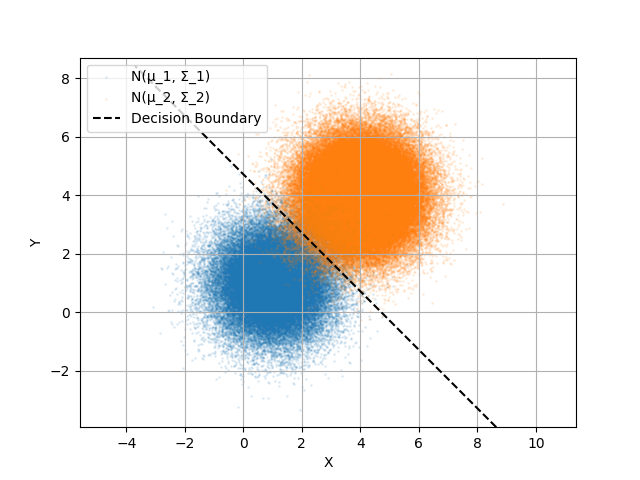
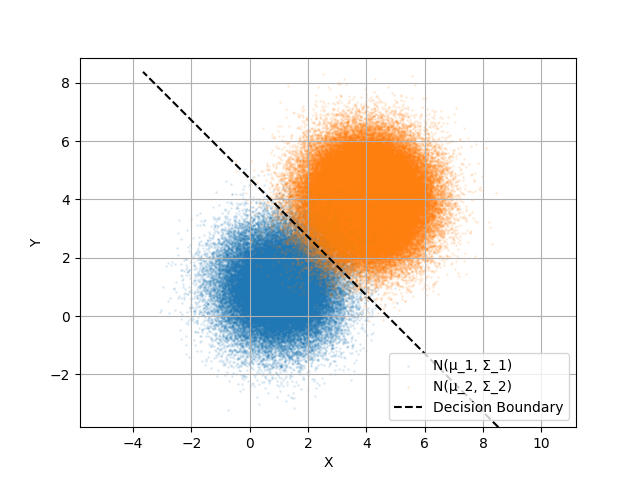
make reproducible for AS2

diff --git a/pa_2/src/experiments.py b/pa_2/src/experiments.py
@@ -1,4 +1,3 @@
-import csv
 import pathlib
 
 import numpy as np
@@ -143,8 +142,8 @@ def main(
     case: int = 3,
     reduce_frac: float | None = None,
 ) -> list[dict]:
-    rng1 = set_all_seeds(42)
-    rng2 = np.random.default_rng(43)
+    rng = set_all_seeds(42)
+    rng_est = np.random.default_rng(43)
     fig_dir = pathlib.Path("attachments")
     class_one_n = 60000
     class_two_n = 140000
@@ -172,13 +171,13 @@ def main(
 
     true_labels = {c: np.full(true_distribution[c]["n"], c) for c in class_ids}
 
-    # Generate points
+    # Generate points using the same rng sequence as pa_1 (seed 42, class 1 then class 2)
     true_points_by_class = {
         c: generate_2d_gas_data(
             true_distribution[c]["n"],
             mean=true_distribution[c]["mean"],
             covariance=true_distribution[c]["cov"],
-            rng=rng1 if c == 1 else rng2,  # Hacky
+            rng=rng,
         )
         for c in class_ids
     }
@@ -222,13 +221,13 @@ def main(
             true_distribution[c]["cov"] = np.diag(true_distribution[c]["cov"])
             distribution[c]["cov"] = np.diag(distribution[c]["cov"])
 
-    # Generate est points
+    # Generate est points using a separate rng (estimated distribution parameters differ from true)
     points_by_class = {
         c: generate_2d_gas_data(
             distribution[c]["n"],  # Still use the same count
             mean=distribution[c]["mean"],
             covariance=distribution[c]["cov"],
-            rng=rng1 if c == 1 else rng2,  # Hacky
+            rng=rng_est,
         )
         for c in class_ids
     }
@@ -294,16 +293,21 @@ if __name__ == "__main__":
             msg = f"Unsupported experiment: {expr}"
             raise ValueError(msg)
         cases = (1, 3)
-        fracs = (None, 0.0001, 0.001, 0.01, 0.1)
+        fracs = (None,) if expr == 1 else (None, 0.0001, 0.001, 0.01, 0.1)
         rows = []
         for case in cases:
             for frac in fracs:
                 rows.extend(main(mean=means, cov=covs, case=case, reduce_frac=frac))
 
-        csv_path = pathlib.Path("attachments") / f"experiments_{expr}_results.csv"
-        fieldnames = list(rows[0].keys())
-        with csv_path.open("w", newline="") as f:
-            writer = csv.DictWriter(f, fieldnames=fieldnames)
-            writer.writeheader()
-            writer.writerows(rows)
-        print(f"Saved results as csv to: {csv_path}")
+        print(f"\n{'='*70}")
+        print(f"Experiment {expr} Results")
+        print(f"{'='*70}")
+        for row in rows:
+            frac_label = f"{row['reduce_frac']}" if row["reduce_frac"] is not None else "full"
+            print(
+                f"  case={row['case']} | frac={frac_label:6s} | dist={row['distribution']:9s}"
+                f" | total_err={row['min_error_rate']*100:.2f}%"
+                f" | class1_err={row['class1_error_rate']*100:.2f}%"
+                f" | class2_err={row['class2_error_rate']*100:.2f}%"
+                f" | bound={row['error_upper_bound']*100:.2f}%"
+            )

diff --git a/pa_1/src/generate_normals.py b/pa_1/src/generate_normals.py
@@ -4,10 +4,8 @@ import matplotlib.pyplot as plt
 import numpy as np
 
 
-def gaussian_deviate() -> (float, float):
+def gaussian_deviate(rng: np.random.Generator) -> (float, float):
     """Generate two independent normally distributed random vars."""
-    rng = np.random.default_rng()
-
     fac = r = v1 = v2 = 0.0
 
     while True:
@@ -29,6 +27,7 @@ def generate_2d_gas_data(
     num_samples: int,
     mean: np.ndarray,
     covariance: np.ndarray,
+    rng: np.random.Generator,
 ) -> np.ndarray:
     """Generate 2D Gaussian data using a covariance matrix and gaussian_deviate."""
     points = np.zeros((num_samples, 2))
@@ -37,7 +36,7 @@ def generate_2d_gas_data(
     chol = np.linalg.cholesky(covariance)
 
     for idx in range(num_samples):
-        g1, g2 = gaussian_deviate()
+        g1, g2 = gaussian_deviate(rng)
         z = np.array([g1, g2])
 
         # Transform: x = Lz + mu
@@ -87,17 +86,20 @@ def plot_2d_gas(
 
 if __name__ == "__main__":
     plot_dir = pathlib.Path("attachments")
+    rng = np.random.default_rng(42)
 
     # Generate dataset A
     points1 = generate_2d_gas_data(
         60000,
         mean=np.array([1, 1]),
         covariance=np.array([[1.0, 0.0], [0.0, 1.0]]),
+        rng=rng,
     )
     points2 = generate_2d_gas_data(
         140000,
         mean=np.array([4, 4]),
         covariance=np.array([[1.0, 0.0], [0.0, 1.0]]),
+        rng=rng,
     )
 
     path = plot_dir / "plotted_dataset_A.png"
@@ -108,11 +110,13 @@ if __name__ == "__main__":
         60000,
         mean=np.array([1, 1]),
         covariance=np.array([[1.0, 0.0], [0.0, 1.0]]),
+        rng=rng,
     )
     points2 = generate_2d_gas_data(
         140000,
         mean=np.array([4, 4]),
         covariance=np.array([[4.0, 0.0], [0.0, 8.0]]),
+        rng=rng,
     )
     path = plot_dir / "plotted_dataset_B.png"
     plot_2d_gas((points1, points2), fig_path=path)

diff --git a/pa_1/src/experiment_1.py b/pa_1/src/experiment_1.py
@@ -6,7 +6,7 @@ from generate_normals import generate_2d_gas_data, plot_2d_gas
 from seed import set_all_seeds
 
 if __name__ == "__main__":
-    set_all_seeds(42)
+    rng = set_all_seeds(42)
     fig_dir = pathlib.Path("attachments")
 
     print("\n" + "=" * 5 + "Experiment 1" + "=" * 5)
@@ -30,8 +30,8 @@ if __name__ == "__main__":
     p2 = num_class2 / total
 
     # Generate out normal points
-    points1 = generate_2d_gas_data(num_class1, mean=mean_class1, covariance=cov_matrix)
-    points2 = generate_2d_gas_data(num_class2, mean=mean_class2, covariance=cov_matrix)
+    points1 = generate_2d_gas_data(num_class1, mean=mean_class1, covariance=cov_matrix, rng=rng)
+    points2 = generate_2d_gas_data(num_class2, mean=mean_class2, covariance=cov_matrix, rng=rng)
 
     # Stack our points and labels for distrimination
     points = np.vstack((points1, points2))

diff --git a/pa_1/src/experiment_2.py b/pa_1/src/experiment_2.py
@@ -6,7 +6,7 @@ from generate_normals import generate_2d_gas_data, plot_2d_gas
 from seed import set_all_seeds
 
 if __name__ == "__main__":
-    set_all_seeds(42)
+    rng = set_all_seeds(42)
     fig_dir = pathlib.Path("attachments")
 
     print("\n" + "=" * 5 + "Experiment 2" + "=" * 5)
@@ -30,8 +30,8 @@ if __name__ == "__main__":
     p2 = num_class2 / total
 
     # Generate out normal points
-    points1 = generate_2d_gas_data(num_class1, mean=mean_class1, covariance=cov1)
-    points2 = generate_2d_gas_data(num_class2, mean=mean_class2, covariance=cov2)
+    points1 = generate_2d_gas_data(num_class1, mean=mean_class1, covariance=cov1, rng=rng)
+    points2 = generate_2d_gas_data(num_class2, mean=mean_class2, covariance=cov2, rng=rng)
 
     # Stack our points and labels for distrimination
     points = np.vstack((points1, points2))

diff --git a/pa_1/src/seed.py b/pa_1/src/seed.py
@@ -4,8 +4,8 @@ import random
 import numpy as np
 
 
-def set_all_seeds(seed=42) -> None:
-    """Set all seeds to make results reproducible."""
+def set_all_seeds(seed: int = 42) -> np.random.Generator:
+    """Set deterministic seeds and return a seeded NumPy Generator."""
     random.seed(seed)
     os.environ["PYTHONHASHSEED"] = str(seed)
-    np.random.seed(seed)
+    return np.random.default_rng(seed)

diff --git a/pa_2/attachments/assignment_1_results.md b/pa_2/attachments/assignment_1_results.md
@@ -1,0 +1,17 @@
+=====Experiment 1=====
+Class 1 total errors: 1640
+Class 1 error rate: 2.73%
+Class 2 total errors: 1400
+Class 2 error rate: 1.00%
+Total errors: 3040
+Minimum error rate: 1.52%
+Error upper bound: 4.83%
+
+=====Experiment 2=====
+Class 1 total errors: 5082
+Class 1 error rate: 8.47%
+Class 2 total errors: 10204
+Class 2 error rate: 7.29%
+Total errors: 15286
+Minimum error rate: 7.64%
+Error upper bound: 16.14%
